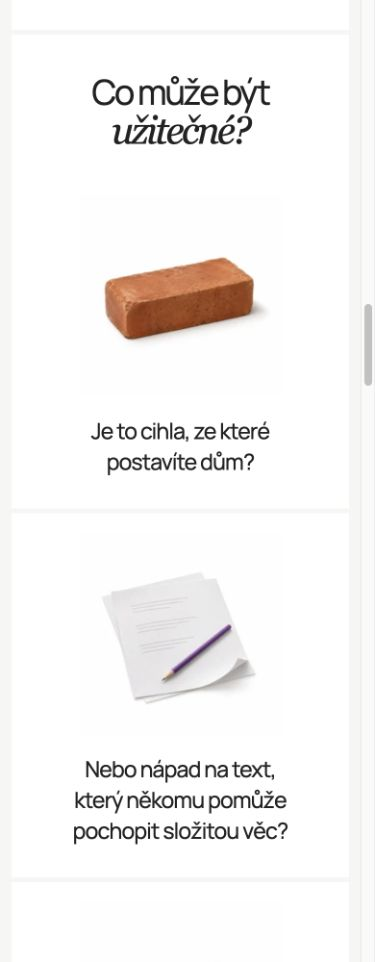
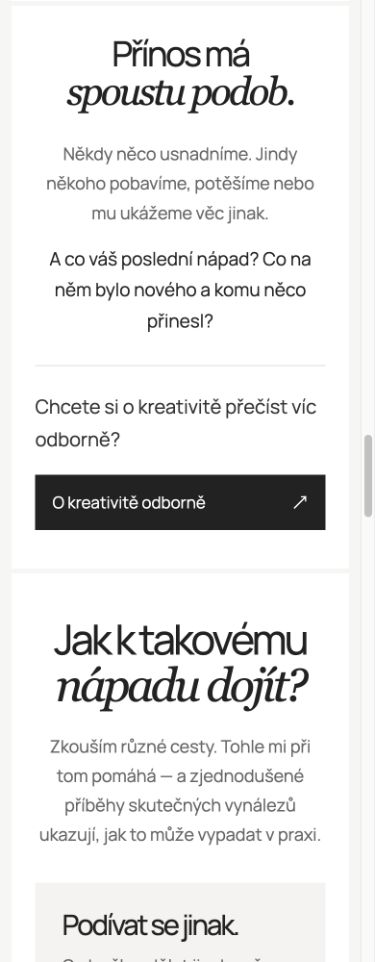
Presunout novy nadpis az pod fotograficke dlazdice

diff --git a/docs/DESIGN.md b/docs/DESIGN.md
@@ -731,3 +731,10 @@ Autor mění sekci „Co může být užitečné?“ na centrovaný nadpis a čt
 Nadpis je uprostřed nad celou řadou. Bílé dlaždice odděluje původní šedá spára 6 px / 5 px mobil. Každá má stejně vysoký obrazový prostor a centrovanou fotografii nejvýše 230 px širokou; na mobilu nejvýše 210 px. Celé motivy bez ořezu, s dostatkem bílého okolí. Otázky začínají ve stejné výšce a jejich znění se nemění. Čtyři sloupce nad 1100 px, dva do 1100 px, jeden do 700 px. Pod řadou je vycentrované původní vysvětlení a zachovaný odkaz do odborné rubriky. Horní definice kreativity zůstává beze změny.
 
 Ověřeno 1440/800/390/320 px bez vodorovného přesahu, všechny čtyři fotografie načtené, shodné šířky dlaždic a zarovnané otázky. Proklik do odborné rubriky Enterem a návrat přes ClientRouter funkční. Produkční build úspěšný: 105 souborů bez chyb/varování/upozornění, 81 HTML, 2624 místních URL. Běžící náhled a kontrolní kopie obsahují stejné soubory. Snímky v README aktualizované; automatický push dle trvalého pokynu autora.
+
+
+## Nadpis až pod fotografiemi — 8. 11. 2026
+
+Autor odstranil nadpis „Co může být užitečné?“ nad čtyřmi fotografiemi a požádal vymyslet jiný až pod nimi. Sekce #co-je-uzitecne nyní začíná přímo dlaždicemi. Nový pracovní nadpis „Přínos má / spoustu podob.“ je centrovaný pod celou řadou, nad vysvětlením. Z prvního odstavce vypuštěna opakující se věta o různých podobách užitku; navazuje rovnou „Někdy něco usnadníme…“. Fotografie, otázky, jejich velikost, responzivní mřížka i odborný odkaz se nemění. ID nadpisu a přístupný název sekce zachované.
+
+Ověřeno na 1440 a 390 px: sekce začíná seznamem dlaždic, nový nadpis je až za všemi čtyřmi, bez vodorovného přesahu. Produkční build úspěšný: 105 souborů bez chyb/varování, 81 HTML a 2624 místních URL. Snímky v README aktualizované. Automatický push dle trvalého pokynu.

diff --git a/README.md b/README.md
@@ -467,3 +467,6 @@ Následné upřesnění (8. 11. 2026): papírová květina je o čtvrtinu větš
 ### Čtyři fotografické otázky — 8. 11. 2026
 
 [Sekce Co může být užitečné?](http://127.0.0.1:4321/kreativec#co-je-uzitecne) má nadpis uprostřed a čtyři bílé fotografické dlaždice: cihla / text / příběh / obrázek. Menší centrované motivy na bílém pozadí, zarovnané otázky, čtyři/dva/jeden sloupec podle šířky. [Desktop](docs/nahled-kreativita-uzitek-dlazdice.jpg), [mobil](docs/nahled-kreativita-uzitek-mobile.jpg), [assety a prompty](docs/CREATIVITY-USEFULNESS-PHOTOS.md). Také původní snímek nahled-kreativita-otazky.png aktualizovaný. Ověřeno 1440/800/390/320 px a klávesnicový proklik do odborné rubriky i návrat. Produkční build bez chyb: 105 souborů, 81 HTML a 2624 místních URL.
+
+
+Aktuální upřesnění (8. 11. 2026): nad čtyřmi fotografickými dlaždicemi už nadpis není. Nový „Přínos má spoustu podob.“ následuje až pod nimi. [Desktop](docs/nahled-kreativita-uzitek-dlazdice.jpg) a [mobil](docs/nahled-kreativita-uzitek-mobile.jpg) aktualizované. Ověřeno 1440/390 px, produkční build bez chyb.
